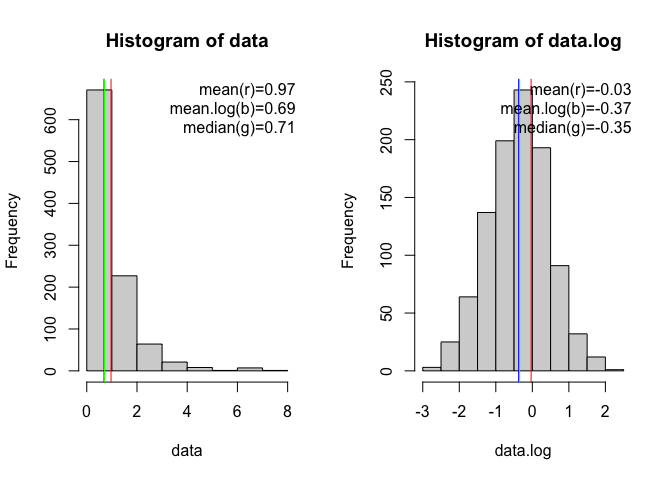
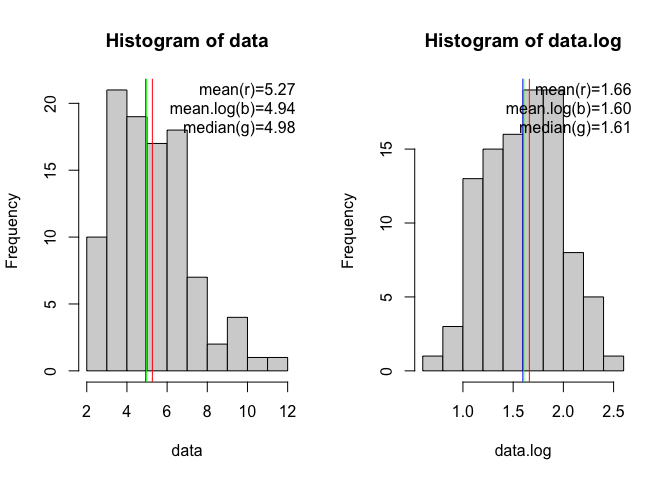
20220504

diff --git a/README.md b/README.md
@@ -35,7 +35,7 @@ converted distribution with their mean and median.
 ``` r
 library(kyLogND)
 
-logND <- rlnorm2(1000)
+logND <- rlnorm2(100, mean=5, sd=2)
 histLogND(logND)
 ```
 
@@ -54,11 +54,16 @@ normalityCheckLogND(logND)
     #>  Shapiro-Wilk normality test (null hypothesis: data is ND)
     #> 
     #> data:  data.log
-    #> W = 0.99874, p-value = 0.718
+    #> W = 0.98634, p-value = 0.3949
 
 `meanIntervalLogND` calculates the interval estimate of mean for log
 normal distribution using Bootstrap.
 
 ``` r
-#meanIntervalLogND(logND)
+meanIntervalLogND(logND, graphic=TRUE)
 ```
+
+<img src="man/figures/README-example3-1.png" width="100%" />
+
+    #>     2.5%      50%    97.5% 
+    #> 4.918698 5.275075 5.676393
